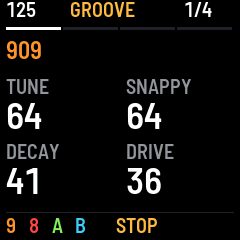
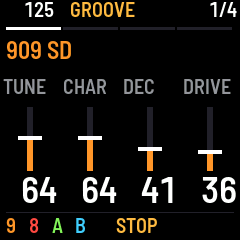
Refresh user screenshots and record live9 build

diff --git a/docs/PERFORMANCE-UX-NEXT.md b/docs/PERFORMANCE-UX-NEXT.md
@@ -283,3 +283,36 @@ Dependencies/includes/licenses and storage/package contracts remain unchanged.
 Build/ABI, new linker/stack totals, functional validation and hardware timing
 are pending. Tests are explicitly excluded; documentation screenshots will be
 captured from WASM without regression assertions or audio qualification.
+
+## Live9 build and publication record
+
+Compiled application source: `2b570c9`. Subsequent capture/documentation changes
+do not change the compiled application. Built with the existing matched JieLi
+toolchain and AC79 SDK using `tools/build-fm1-wsl.sh --release 1.2.1-live9`;
+emulator via `X0X_VERSION=1.2.1-live9 tools/build-emu-wsl.sh` (Emscripten 3.1.69).
+
+- App 442704 bytes; ordinary RAM 96428 / 98304 bytes; pool 331752 / 344064,
+  preserving the 8192-byte reserve.
+- Firmware `build/x0x-1.2.1-live9.fwsc`, 609682 bytes, FM-1_9010201.
[1 lines of base64/hex data omitted]
+- Matching emulator 534342-byte WASM; optional page voice absent.
+- Retained build checks: 909 call-free RAM-text instructions, no soft-double
+  routines, HAL-only register access, SDK/loader/package identity/size checks.
+- Documentation captures: `node tools/capture_live_screens.mjs`; nine actual
+  240×240 WASM framebuffer PNGs. Framebuffer byte order matches the browser.
+  Captures are documentation evidence only; no functional/audio assertions run.
+
+| Compliance category | Status and evidence |
+| --- | --- |
+| Target / build / ABI | PASS for compile/link/package scope — matched toolchain/SDK and retained integrity checks above. |
+| Audio hot path / numerics | PASS for source scope — UI-only additions; audio processing unchanged, build rejects soft-double routines. |
+| Execution ownership / synchronization | PASS for source scope — bounded main-loop view/drawing logic uses existing getters and parameter publication; no new queue or ownership. |
+| Memory / storage / I/O | PASS for static linker budgets above; peak stack UNVERIFIED. Existing canvas/storage/peripheral contracts unchanged. |
+| Dependencies / includes / licenses | PASS — no firmware dependencies or assets introduced, existing notices retained; capture utility uses Node built-ins. |
+| Compatibility / package / recovery | PASS for unchanged persistent formats and retained package checks; physical installation/recovery UNVERIFIED. |
+| Host functional validation | UNVERIFIED — no test suites or audio/listening tests run; nine documentation screenshots captured and visually reviewed for publication. |
+| Hardware real-time validation | UNVERIFIED — no hardware flashed or measured; loaded playback, timing/stack/soak and recovery remain pending. |
+
+After approval, exercise FX view cycling in both directions, time division
+bounds, each return control, held gestures/release across views, manual sound
+and mute preservation, plus the earlier Auto/Director/navigation/FX scenarios.
